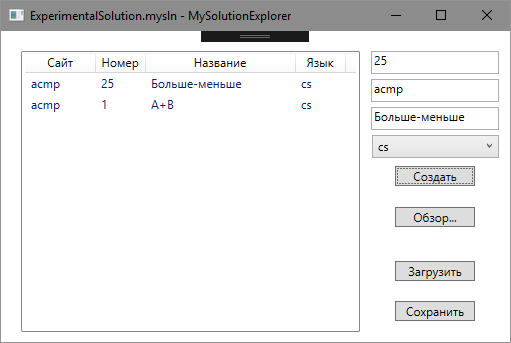
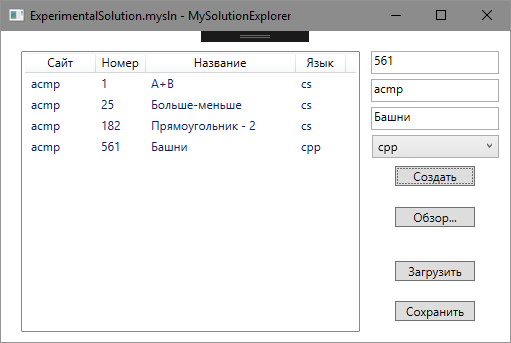
налажено добавление C++ проектов

diff --git a/MySolutionExplorer/CppProject.cs b/MySolutionExplorer/CppProject.cs
@@ -32,14 +32,14 @@ namespace MySolutionExplorer
 		{
 			VS2017ProjectFile = new XmlProjectFile
 			{
-				File = new FileInfo(Dir + MyEnum.Slash + MyEnum.TemplateCppProj + MyEnum.VS2017 + MyEnum.CSProj),
+				//File = new FileInfo(Dir + MyEnum.Slash + MyEnum.TemplateCppProj + MyEnum.VS2017 + MyEnum.CSProj),
 				Suff = MyEnum.VS2017,
 				Parent = this,
 				Extension = MyEnum.VCXProj
 			};
 			VS2010ProjectFile = new XmlProjectFile
 			{
-				File = new FileInfo(Dir + MyEnum.Slash + MyEnum.TemplateCppProj + MyEnum.VS2010 + MyEnum.CSProj),
+				//File = new FileInfo(Dir + MyEnum.Slash + MyEnum.TemplateCppProj + MyEnum.VS2010 + MyEnum.CSProj),
 				Suff = MyEnum.VS2010,
 				Parent = this,
 				Extension = MyEnum.VCXProj
@@ -80,6 +80,8 @@ namespace MySolutionExplorer
 		public override void CreateFiles()
 		{
 			CreateFiles(MyEnum.TemplateCppProj);
+
+			FindProjectFiles();
 
 			CreateProjects();
 			//CreateProj(MyEnum.VS2017, VS2017Proj);

diff --git a/MySolutionExplorer/MainWindow.xaml.cs b/MySolutionExplorer/MainWindow.xaml.cs
@@ -144,7 +144,7 @@ namespace MySolutionExplorer
 			var lang = ((TextBlock)langList.SelectedValue).Text;
 			if (lang == "cpp")
 			{
-				var p = new CSharpProject//(s.Dir + MyEnum.Slash + MyEnum.TemplateCppProj)
+				var p = new CppProject//(s.Dir + MyEnum.Slash + MyEnum.TemplateCppProj)
 				{
 					ParentSolution = s,
 					TaskName = nameText.Text,
